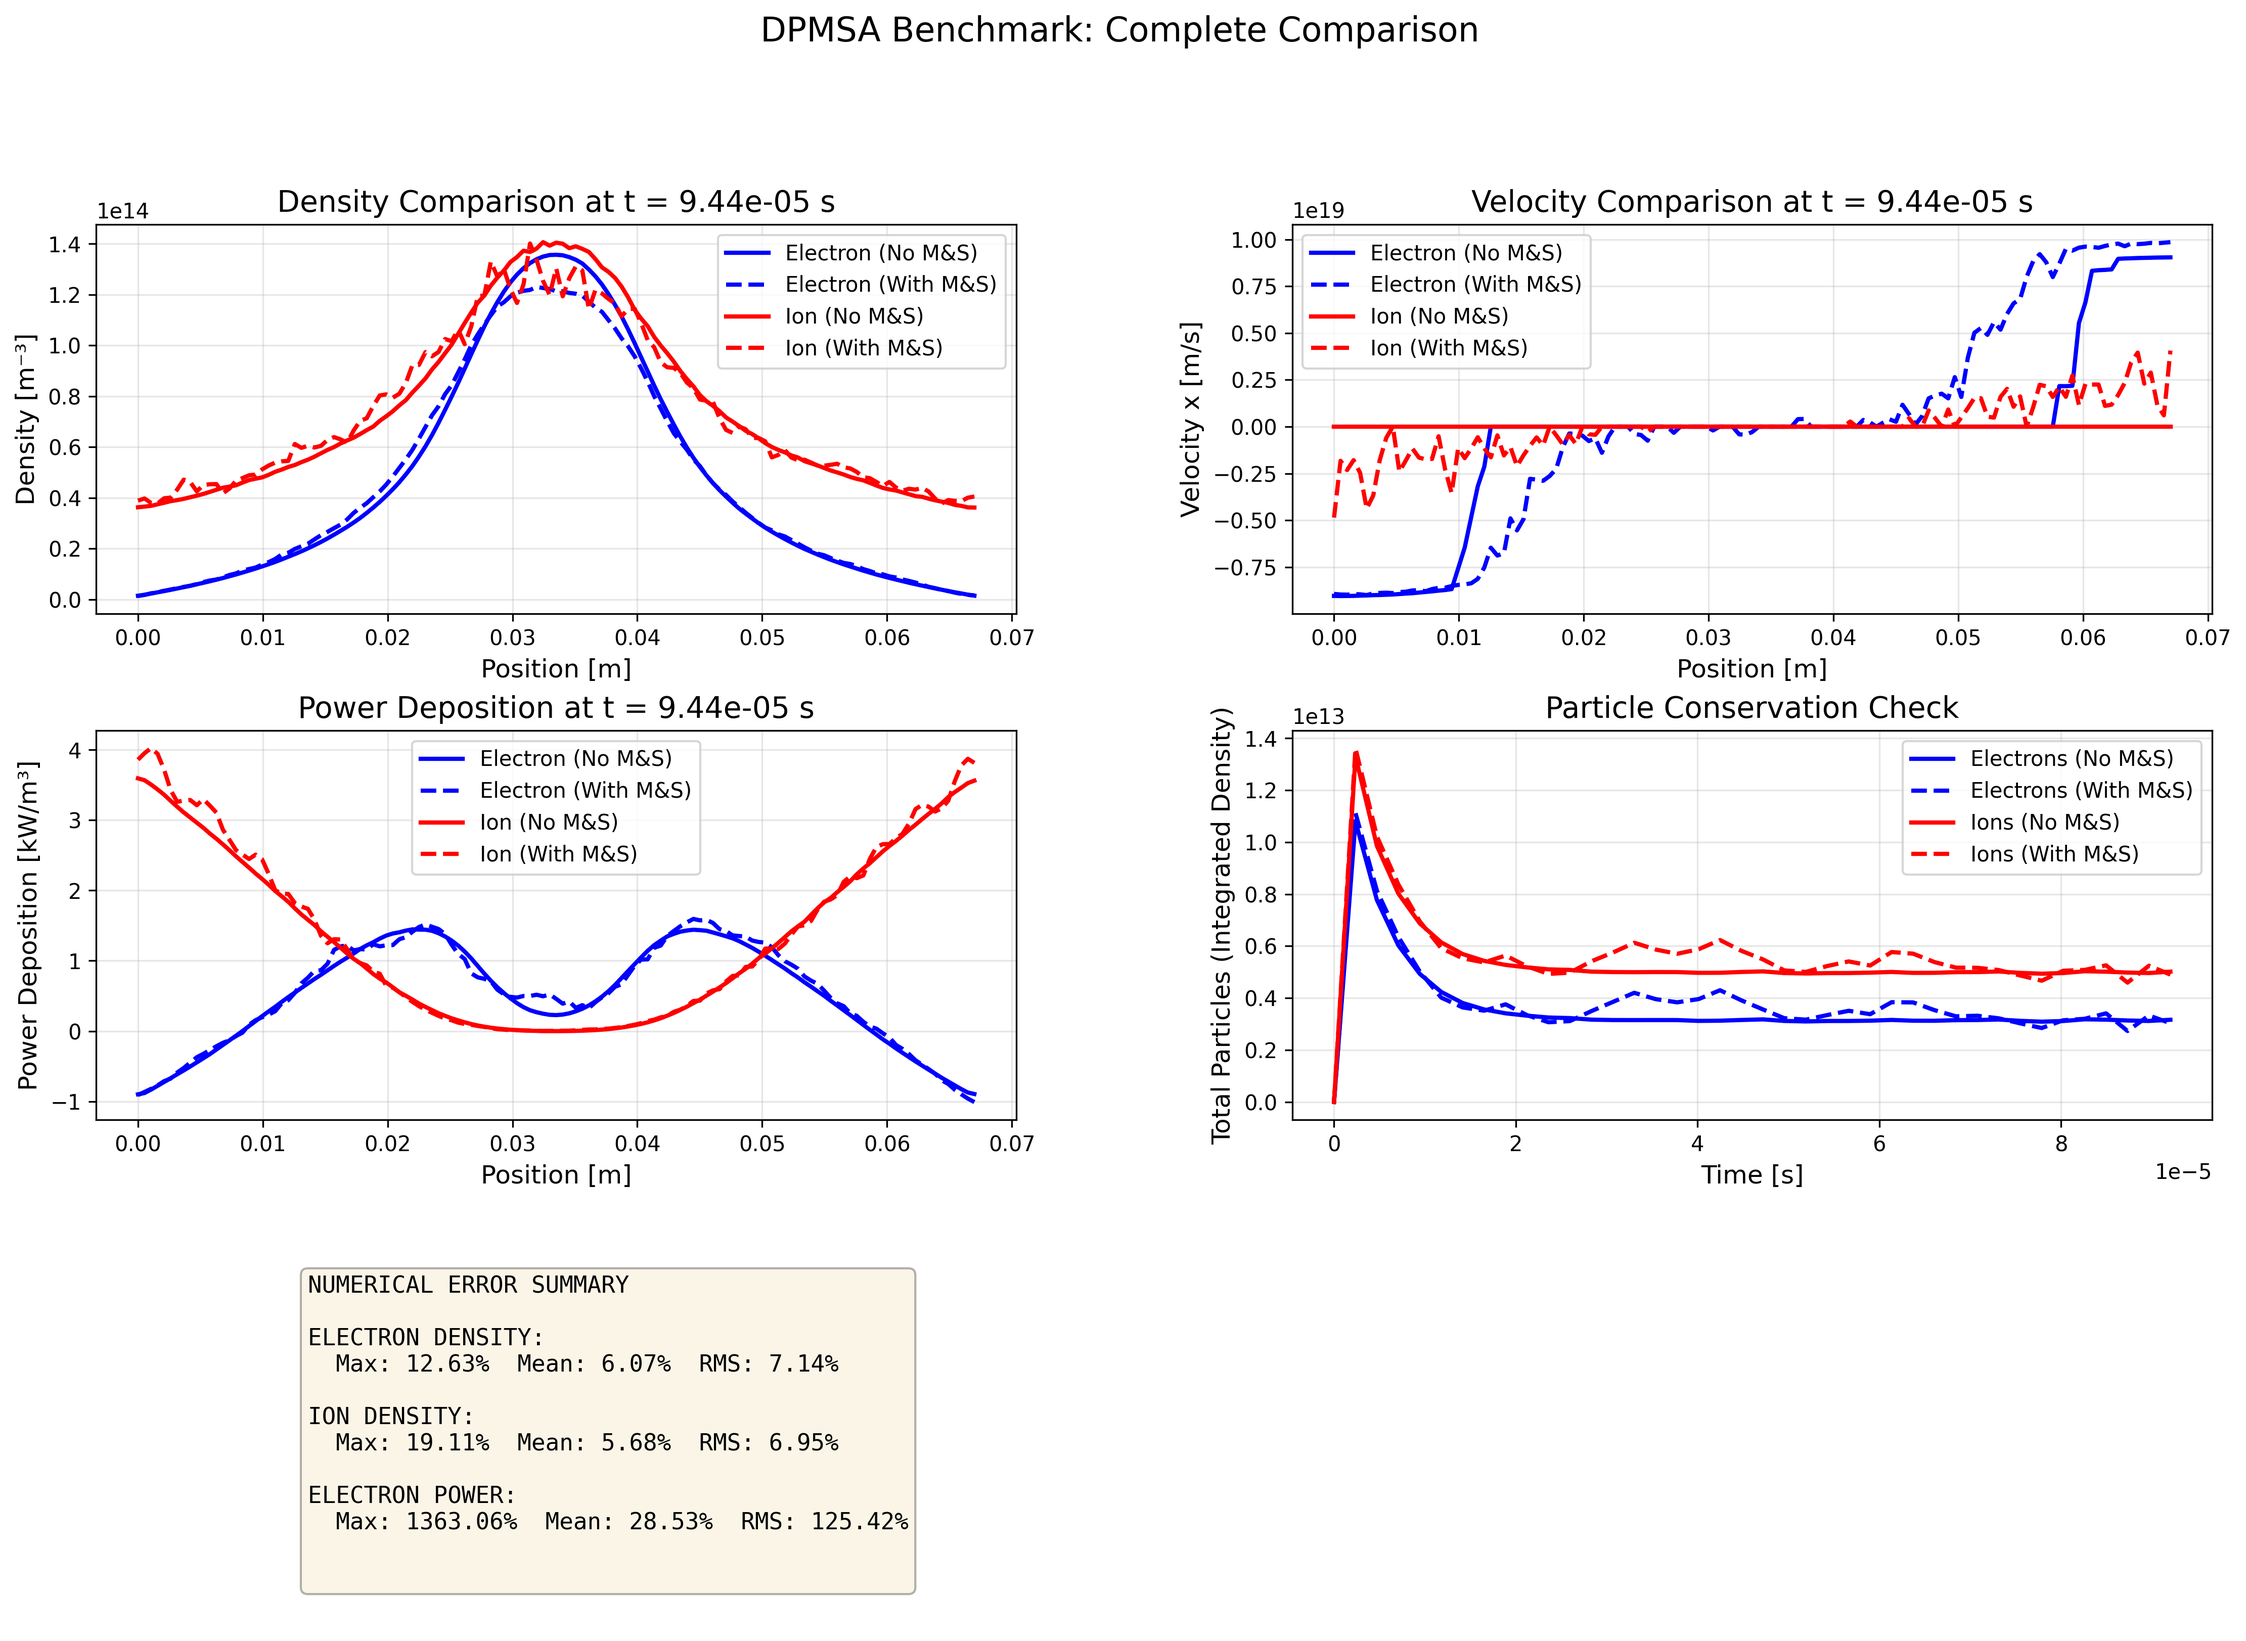
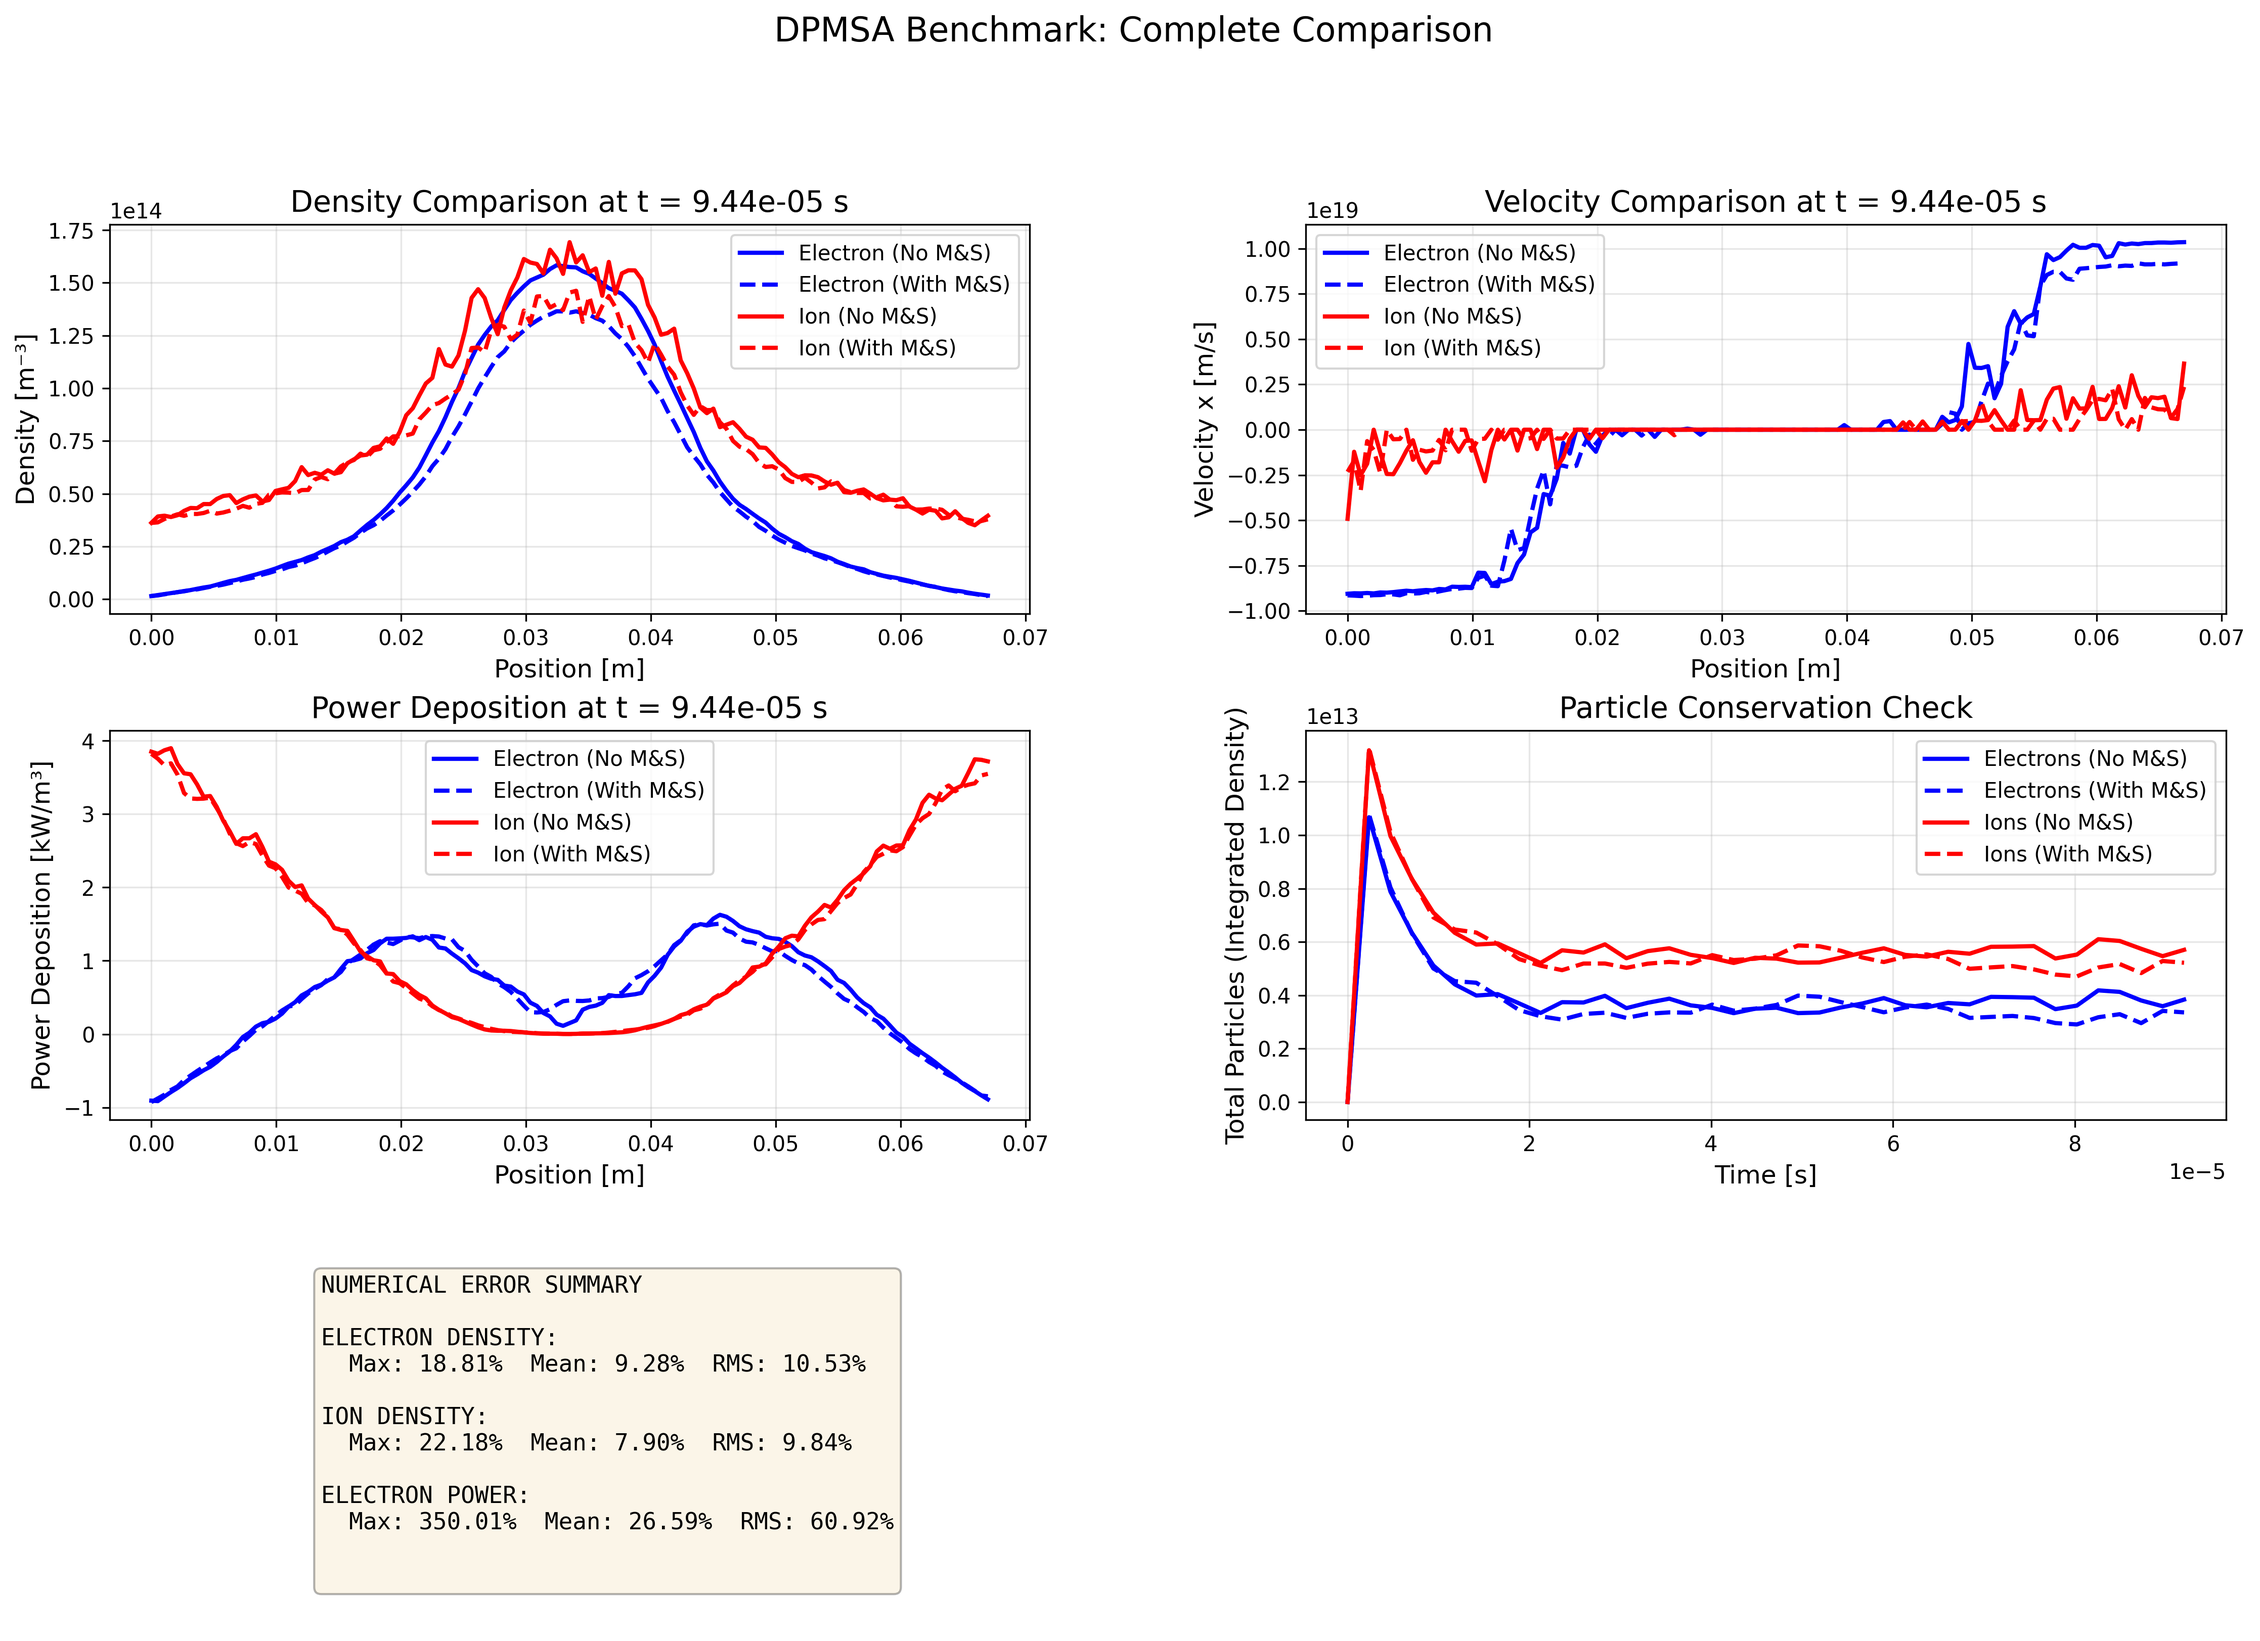
latest

diff --git a/pic/MergingSplitting.py b/pic/MergingSplitting.py
@@ -3,7 +3,7 @@ from pic.functions import get_particle_indexes_in_cells
 
 
 class DPMSA:
-    def __init__(self, plasma, cluster_size_min=4, merge_interval=10000, max_merge_fraction=0.2):
+    def __init__(self, plasma, cluster_size_min=4, merge_interval=10000, max_merge_fraction=0.01):
         self.plasma = plasma
         self.N_min = cluster_size_min
         self.merge_interval = merge_interval
@@ -177,10 +177,7 @@ class DPMSA:
                     continue
                 Dij = self.distance(x[ci], x[cj], p[ci], p[cj])
                 if Dij <= d_min:
-                    merged[ci].extend(merged[cj])
-                    used.add(cj)
-                    del merged[cj]
-                    # Check if merging would exceed the limit
+                    # Check if merging would exceed the limit BEFORE merging
                     particles_to_merge = len(merged[cj])
                     if particles_merged + particles_to_merge <= max_particles_to_merge:
                         merged[ci].extend(merged[cj])
